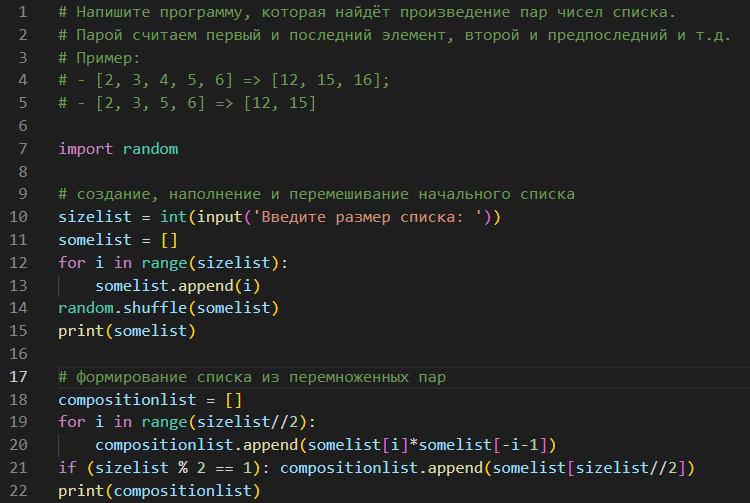
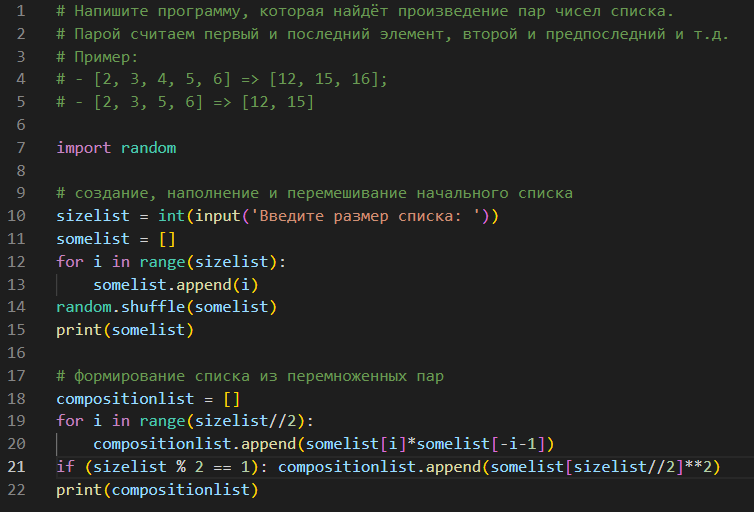
add **2

diff --git a/HWtask012.py b/HWtask012.py
@@ -18,5 +18,5 @@ print(somelist)
 compositionlist = []
 for i in range(sizelist//2):
     compositionlist.append(somelist[i]*somelist[-i-1])
-if (sizelist % 2 == 1): compositionlist.append(somelist[sizelist//2])
+if (sizelist % 2 == 1): compositionlist.append(somelist[sizelist//2]**2)
 print(compositionlist)
